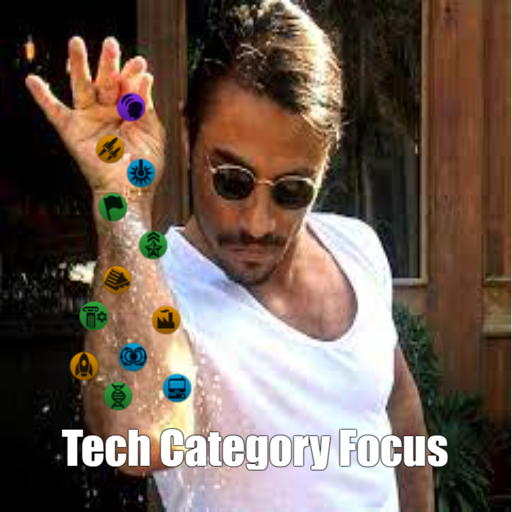
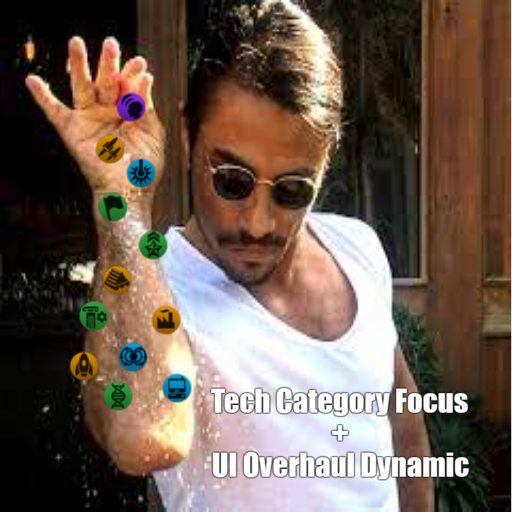
add desc and thumbnail img and fix gui bugs

Changed region(s): [[0.125, 0.75, 0.9375, 0.9375]]

diff --git a/Readme.md b/Readme.md
@@ -1,3 +1,3 @@
-*Tech Category Focus* mod for Stellaris
+*Tech Category Focus + UI Overhaul Dynamic* mod for Stellaris
 
-[Steam Workshop::Tech Category Focus](https://steamcommunity.com/sharedfiles/filedetails/?id=2981450111)
+[Steam Workshop::Tech Category Focus + UI Overhaul Dynamic](https://steamcommunity.com/sharedfiles/filedetails/?id=)
